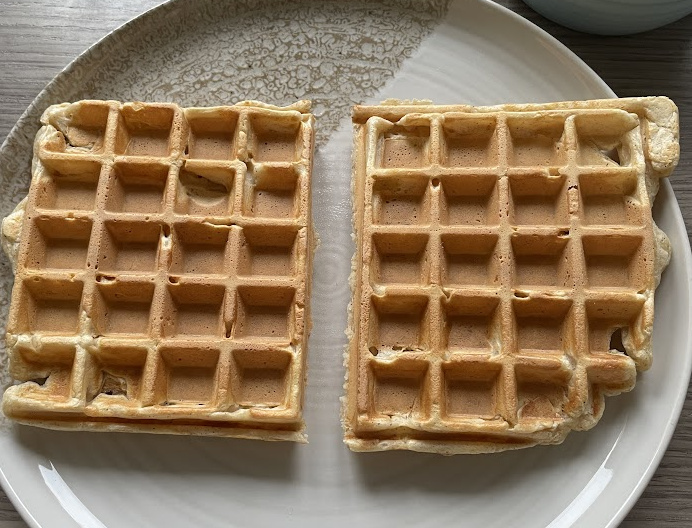
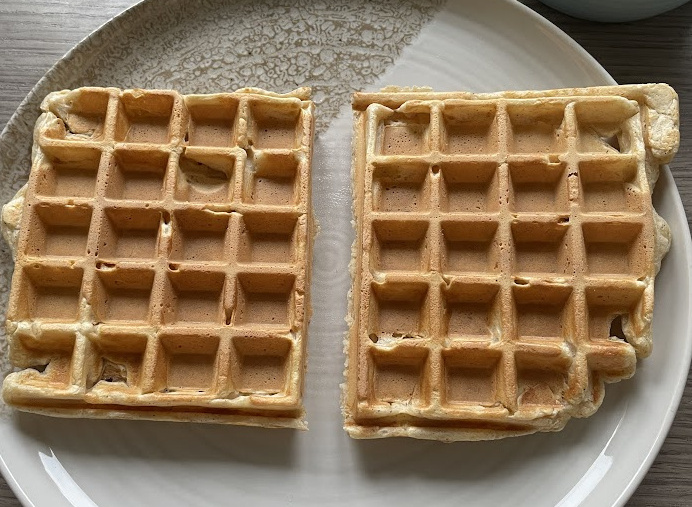
add pancakes to the waffle recipe, coz its the same batter yk

diff --git a/assets/style.sass b/assets/style.sass
@@ -66,9 +66,10 @@ a
   flex-direction: row
   text-align: center
 
+
   .image-in-split
-    width: 50%
     margin: 1em
+    width: 30em
   
 .caption
   margin: auto

diff --git a/content/posts/pastry/waffles/index.md b/content/posts/pastry/waffles/index.md
@@ -1,5 +1,5 @@
 ---
-title: "Yogurt & Berry Waffles"
+title: "Waffles / Pancakes"
 date: 2025-08-05T11:00:00+01:00
 draft: false
 tags: ["snack", "sugar-free", "breakfast", "dinner"]
@@ -42,7 +42,23 @@ Cooking time: 5 minutes
 
 <hr>
 
-### Also i needed to share how GOOD these look 🥰🥰🥰
-<img src="./uhhh.JPG" width="400em">
+### Also i HAD to share these pics 🥰🥰🥰
+<div class="image-split">
+<div class="image-in-split">
+
+![](uhhh.JPG)
+<span class="caption">These just look too perfect</span>
+</div>
+
+<div class="image-in-split">
+
+![](pancake-pbanana.jpeg)
+<span class="caption">This is peanut butter with banana slices, SO GOOD!!!</span>
+
+
+</div>
+
+
+</div>
 
 </div>
